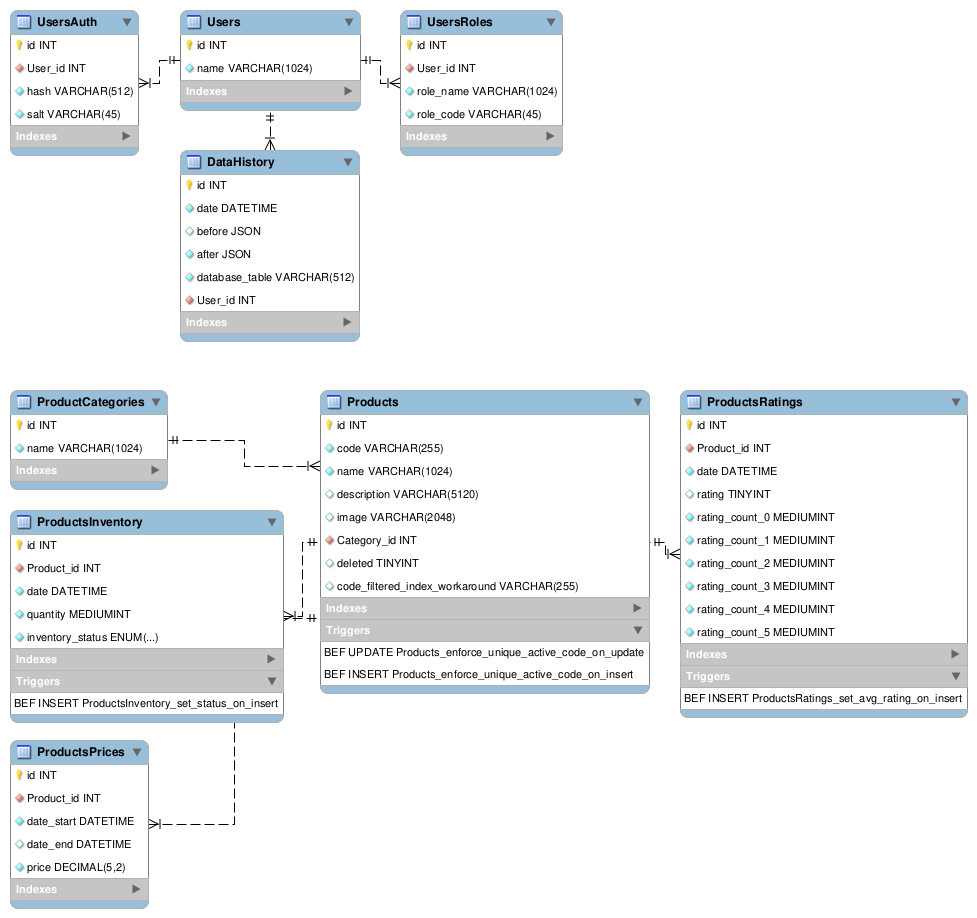
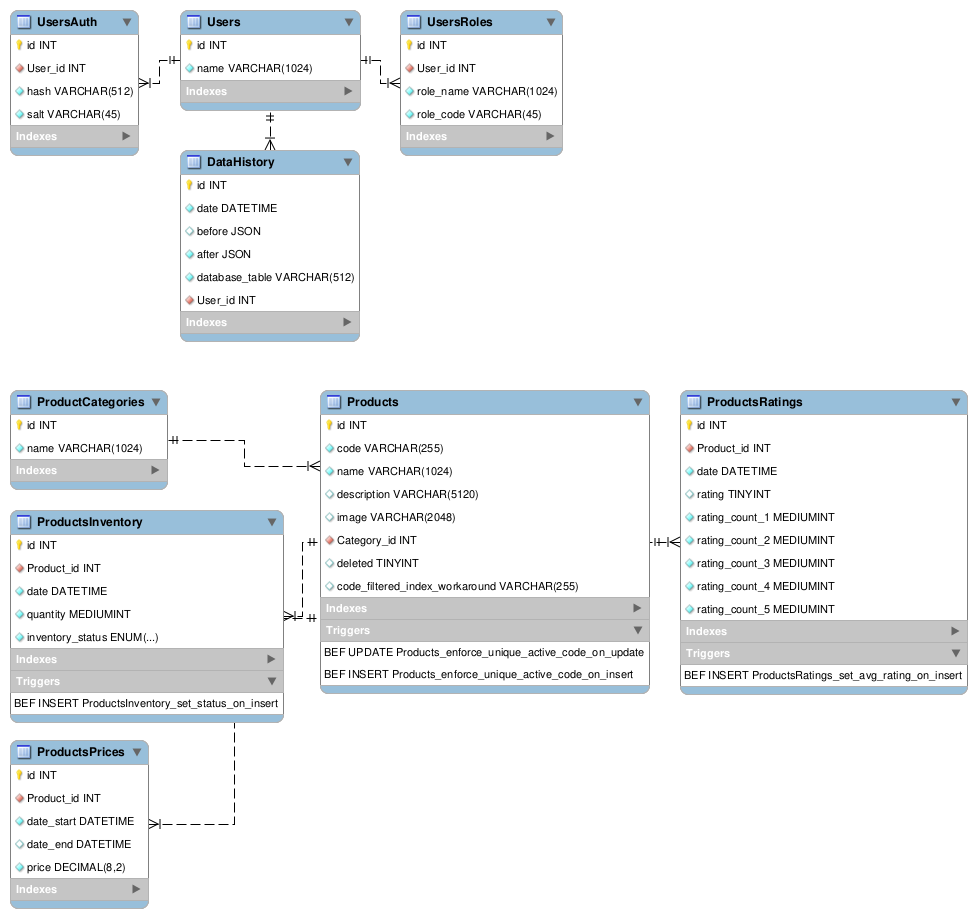
simplified rating - removed rating 0 count, - 0 is now default until vote, - prevent divide by 0 in trigger

Changed region(s): [[0.6755, 0.671, 1.0, 0.793], [0.6755, 0.5795, 0.7062, 0.61]]

diff --git a/back/database/products.json.to.sql.js b/back/database/products.json.to.sql.js
@@ -84,7 +84,6 @@ const prices = [];
  * @property {Number} Product_id
  * @property {Date} date
  * @property {Number} rating
- * @property {Number} rating_count_0
  * @property {Number} rating_count_1
  * @property {Number} rating_count_2
  * @property {Number} rating_count_3
@@ -95,7 +94,6 @@ const prices = [];
 const ratings = [];
 /** @type {Omit<Rating,"id"|"Product_id"|"date"|"rating">} */
 const zeroRating = {
-  rating_count_0: 0,
   rating_count_1: 0,
   rating_count_2: 0,
   rating_count_3: 0,
@@ -144,7 +142,7 @@ async function extractState() {
       ...zeroRating,
       Product_id: product.id,
       rating: ratingValue,
-      [`rating_count_${ratingValue}`]: 1
+      ...(ratingValue > 0 ? {[`rating_count_${ratingValue}`]: 1} : {})
     };
     ratings.push(rating);
   }
@@ -186,7 +184,6 @@ function writeProductsPricesInsert(){
 }
 
 const ratingCounts = [
-"rating_count_0",
 "rating_count_1",
 "rating_count_2",
 "rating_count_3",
